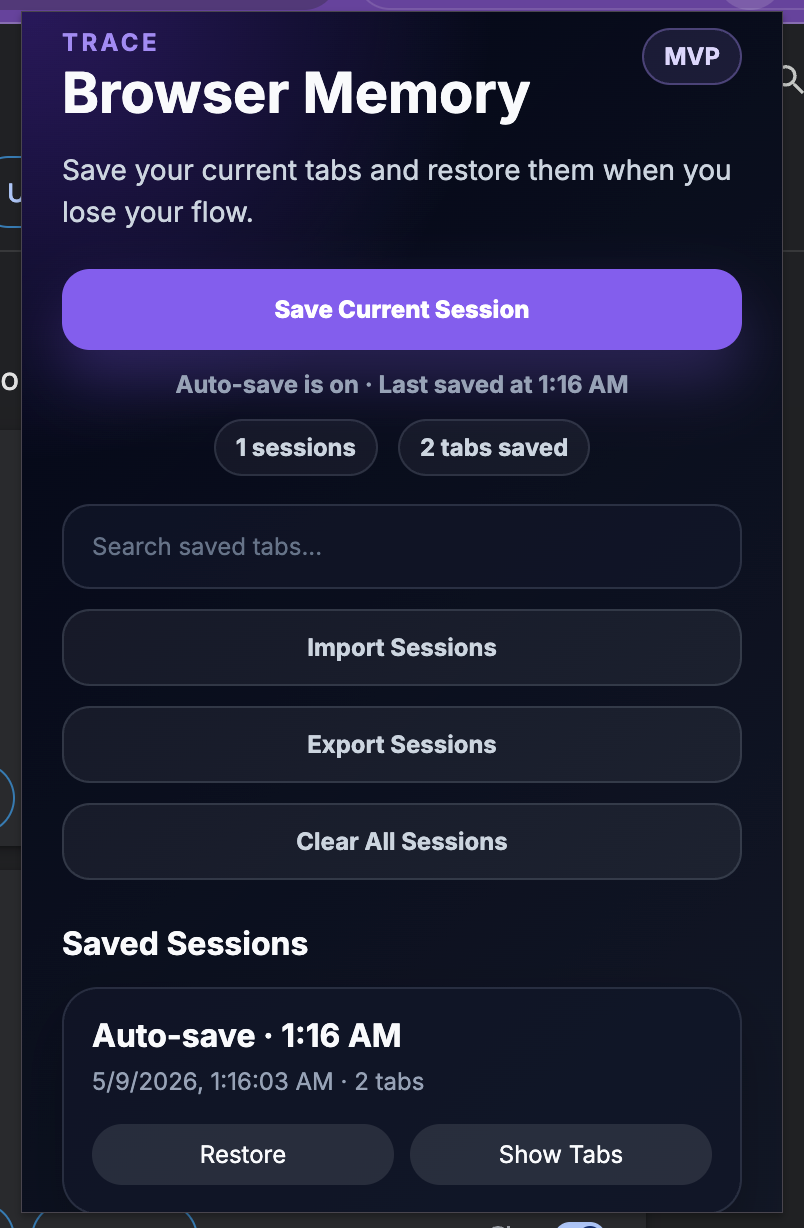
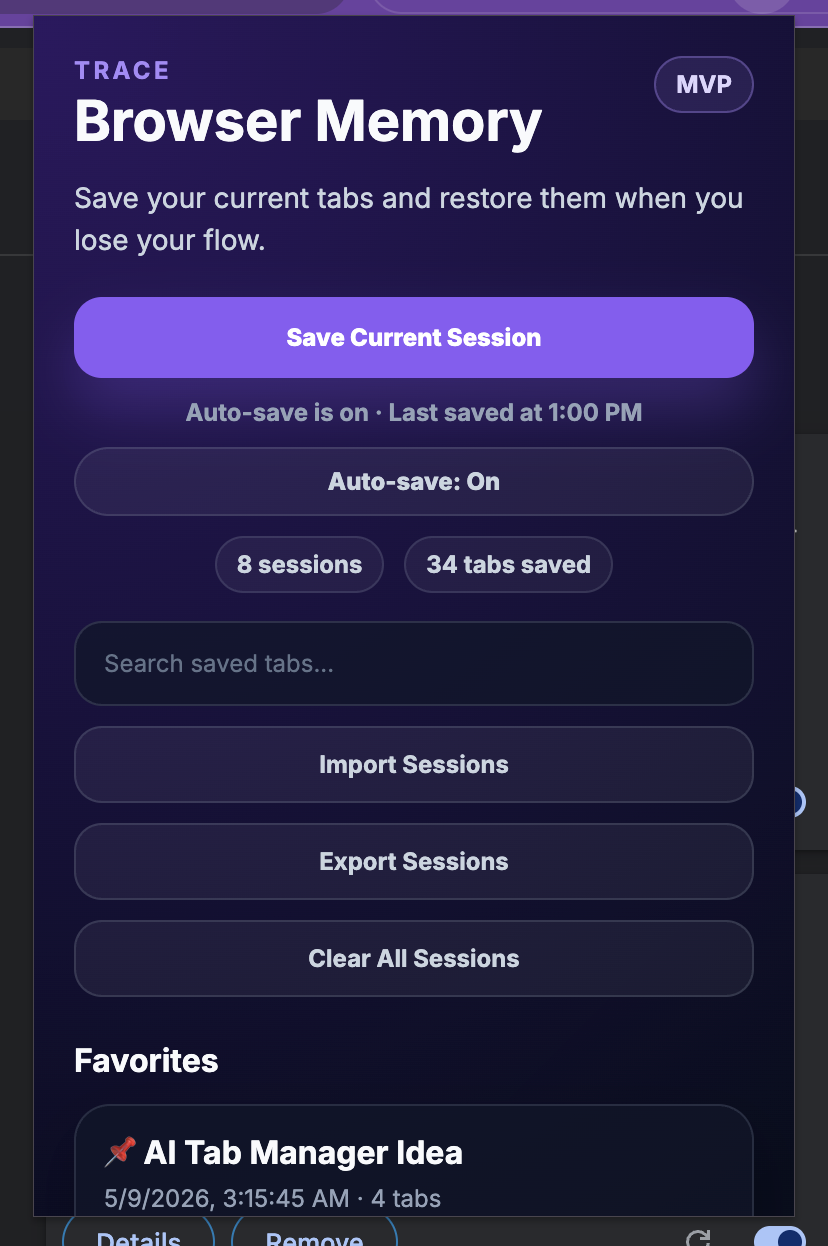
update screenshot

diff --git a/src/background/index.ts b/src/background/index.ts
@@ -1,5 +1,7 @@
 /// <reference types="chrome" />
 
+
+
 type SavedTab = {
   id: string;
   title: string;
@@ -38,62 +40,73 @@ chrome.alarms.onAlarm.addListener((alarm) => {
 });
 
 const saveCurrentWindowSession = async () => {
-  const windows = await chrome.windows.getAll({
-    populate: true,
-    windowTypes: ["normal"],
-  });
-
-  const focusedWindow = windows.find((window) => window.focused) || windows[0];
-
-  if (!focusedWindow?.tabs?.length) return;
-
-  const tabs = focusedWindow.tabs;
-  const currentUrls = tabs.map((tab) => tab.url || "");
-
   chrome.storage.local.get(
-    ["sessions"],
-    (result: { sessions?: SavedSession[] }) => {
-      const existingSessions = result.sessions || [];
-      const latestSession = existingSessions[0];
+    ["autoSaveEnabled"],
+    async (settings: { autoSaveEnabled?: boolean }) => {
+      if (settings.autoSaveEnabled === false) return;
 
-      if (latestSession) {
-        const latestUrls = latestSession.tabs.map((tab) => tab.url);
-        const isDuplicate =
-          JSON.stringify(currentUrls) === JSON.stringify(latestUrls);
-
-        if (isDuplicate) return;
-      }
-
-      const newSession: SavedSession = {
-  id: crypto.randomUUID(),
-  name:
-    tabs
-      .slice(0, 3)
-      .map((tab) => tab.title?.split("|")[0]?.trim() || "Untitled")
-      .join(", ") || "Auto-save",
-
-  summary: tabs
-    .slice(0, 3)
-    .map((tab) => tab.title?.split("|")[0]?.trim())
-    .filter(Boolean)
-    .join(" • "),
-
-  createdAt: new Date().toISOString(),
-
-  tabs: tabs.map((tab) => ({
-    id: crypto.randomUUID(),
-    title: tab.title || "Untitled",
-    url: tab.url || "",
-    favIconUrl: tab.favIconUrl,
-  })),
-};
-
-      const updatedSessions = [newSession, ...existingSessions].slice(0, 25);
-
-      chrome.storage.local.set({
-        sessions: updatedSessions,
-        lastSavedAt: new Date().toISOString(),
+      const windows = await chrome.windows.getAll({
+        populate: true,
+        windowTypes: ["normal"],
       });
+
+      const focusedWindow =
+        windows.find((window) => window.focused) || windows[0];
+
+      if (!focusedWindow?.tabs?.length) return;
+
+      const tabs = focusedWindow.tabs;
+      const currentUrls = tabs.map((tab) => tab.url || "");
+
+      chrome.storage.local.get(
+        ["sessions"],
+        (result: { sessions?: SavedSession[] }) => {
+          const existingSessions = result.sessions || [];
+          const latestSession = existingSessions[0];
+
+          if (latestSession) {
+            const latestUrls = latestSession.tabs.map((tab) => tab.url);
+            const isDuplicate =
+              JSON.stringify(currentUrls) === JSON.stringify(latestUrls);
+
+            if (isDuplicate) return;
+          }
+
+          const newSession: SavedSession = {
+            id: crypto.randomUUID(),
+            name:
+              tabs
+                .slice(0, 3)
+                .map(
+                  (tab) =>
+                    tab.title?.split("|")[0]?.trim() || "Untitled"
+                )
+                .join(", ") || "Auto-save",
+            summary: tabs
+              .slice(0, 3)
+              .map((tab) => tab.title?.split("|")[0]?.trim())
+              .filter(Boolean)
+              .join(" • "),
+            createdAt: new Date().toISOString(),
+            tabs: tabs.map((tab) => ({
+              id: crypto.randomUUID(),
+              title: tab.title || "Untitled",
+              url: tab.url || "",
+              favIconUrl: tab.favIconUrl,
+            })),
+          };
+
+          const updatedSessions = [newSession, ...existingSessions].slice(
+            0,
+            25
+          );
+
+          chrome.storage.local.set({
+            sessions: updatedSessions,
+            lastSavedAt: new Date().toISOString(),
+          });
+        }
+      );
     }
   );
 };

diff --git a/src/App.tsx b/src/App.tsx
@@ -26,12 +26,18 @@ function App() {
   const [selectedTag, setSelectedTag] = useState("All");
   const [expandedSessionIds, setExpandedSessionIds] = useState<string[]>([]);
   const [lastSavedAt, setLastSavedAt] = useState<string | null>(null);
+  const [autoSaveEnabled, setAutoSaveEnabled] = useState(true);
 
   useEffect(() => {
     chrome.storage.local.get(
-      ["sessions", "lastSavedAt"],
-      (result: { sessions?: SavedSession[]; lastSavedAt?: string }) => {
+      ["sessions", "lastSavedAt", "autoSaveEnabled"],
+      (result: {
+        sessions?: SavedSession[];
+        lastSavedAt?: string;
+        autoSaveEnabled?: boolean;
+      }) => {
         setSessions(result.sessions || []);
+        setAutoSaveEnabled(result.autoSaveEnabled !== false);
 
         if (result.lastSavedAt) {
           setLastSavedAt(
@@ -54,6 +60,10 @@ function App() {
 
       if (changes.sessions?.newValue) {
         setSessions(changes.sessions.newValue as SavedSession[]);
+      }
+
+      if (changes.autoSaveEnabled?.newValue !== undefined) {
+        setAutoSaveEnabled(changes.autoSaveEnabled.newValue as boolean);
       }
 
       if (changes.lastSavedAt?.newValue) {
@@ -134,6 +144,14 @@ function App() {
       }
     );
   }, []);
+
+  const toggleAutoSave = () => {
+    const nextValue = !autoSaveEnabled;
+
+    chrome.storage.local.set({ autoSaveEnabled: nextValue }, () => {
+      setAutoSaveEnabled(nextValue);
+    });
+  };
 
   const restoreSession = (session: SavedSession) => {
     const urls = session.tabs.map((tab) => tab.url).filter(Boolean);
@@ -319,8 +337,12 @@ function App() {
     })
     .sort((a, b) => Number(b.isPinned) - Number(a.isPinned));
 
-  const favoriteSessions = filteredSessions.filter((session) => session.isPinned);
-  const regularSessions = filteredSessions.filter((session) => !session.isPinned);
+  const favoriteSessions = filteredSessions.filter(
+    (session) => session.isPinned
+  );
+  const regularSessions = filteredSessions.filter(
+    (session) => !session.isPinned
+  );
 
   const totalTabs = sessions.reduce(
     (total, session) => total + session.tabs.length,
@@ -428,11 +450,15 @@ function App() {
       </button>
 
       <p className="lastSaved">
-        Auto-save is on ·{" "}
+        Auto-save is {autoSaveEnabled ? "on" : "off"} ·{" "}
         {lastSavedAt
           ? `Last saved at ${lastSavedAt}`
           : "Waiting for first auto-save"}
       </p>
+
+      <button className="autoSaveToggle" onClick={toggleAutoSave}>
+        Auto-save: {autoSaveEnabled ? "On" : "Off"}
+      </button>
 
       <div className="stats">
         <span>{sessions.length} sessions</span>
@@ -511,7 +537,9 @@ function App() {
             {regularSessions.length > 0 && (
               <div className="sessionGroup">
                 <h2>
-                  {favoriteSessions.length > 0 ? "All Sessions" : "Saved Sessions"}
+                  {favoriteSessions.length > 0
+                    ? "All Sessions"
+                    : "Saved Sessions"}
                 </h2>
                 {regularSessions.map(renderSessionCard)}
               </div>

diff --git a/src/App.css b/src/App.css
@@ -393,3 +393,20 @@ h3 {
   min-width: 78px;
   font-size: 12px;
 }
+
+.autoSaveToggle {
+  display: block;
+  width: 100%;
+  margin-top: 10px;
+  border: 1px solid rgba(148, 163, 184, 0.2);
+  border-radius: 999px;
+  padding: 9px 12px;
+  background: rgba(255, 255, 255, 0.06);
+  color: #cbd5e1;
+  font-size: 12px;
+  font-weight: 800;
+}
+
+.autoSaveToggle:hover {
+  background: rgba(255, 255, 255, 0.1);
+}
